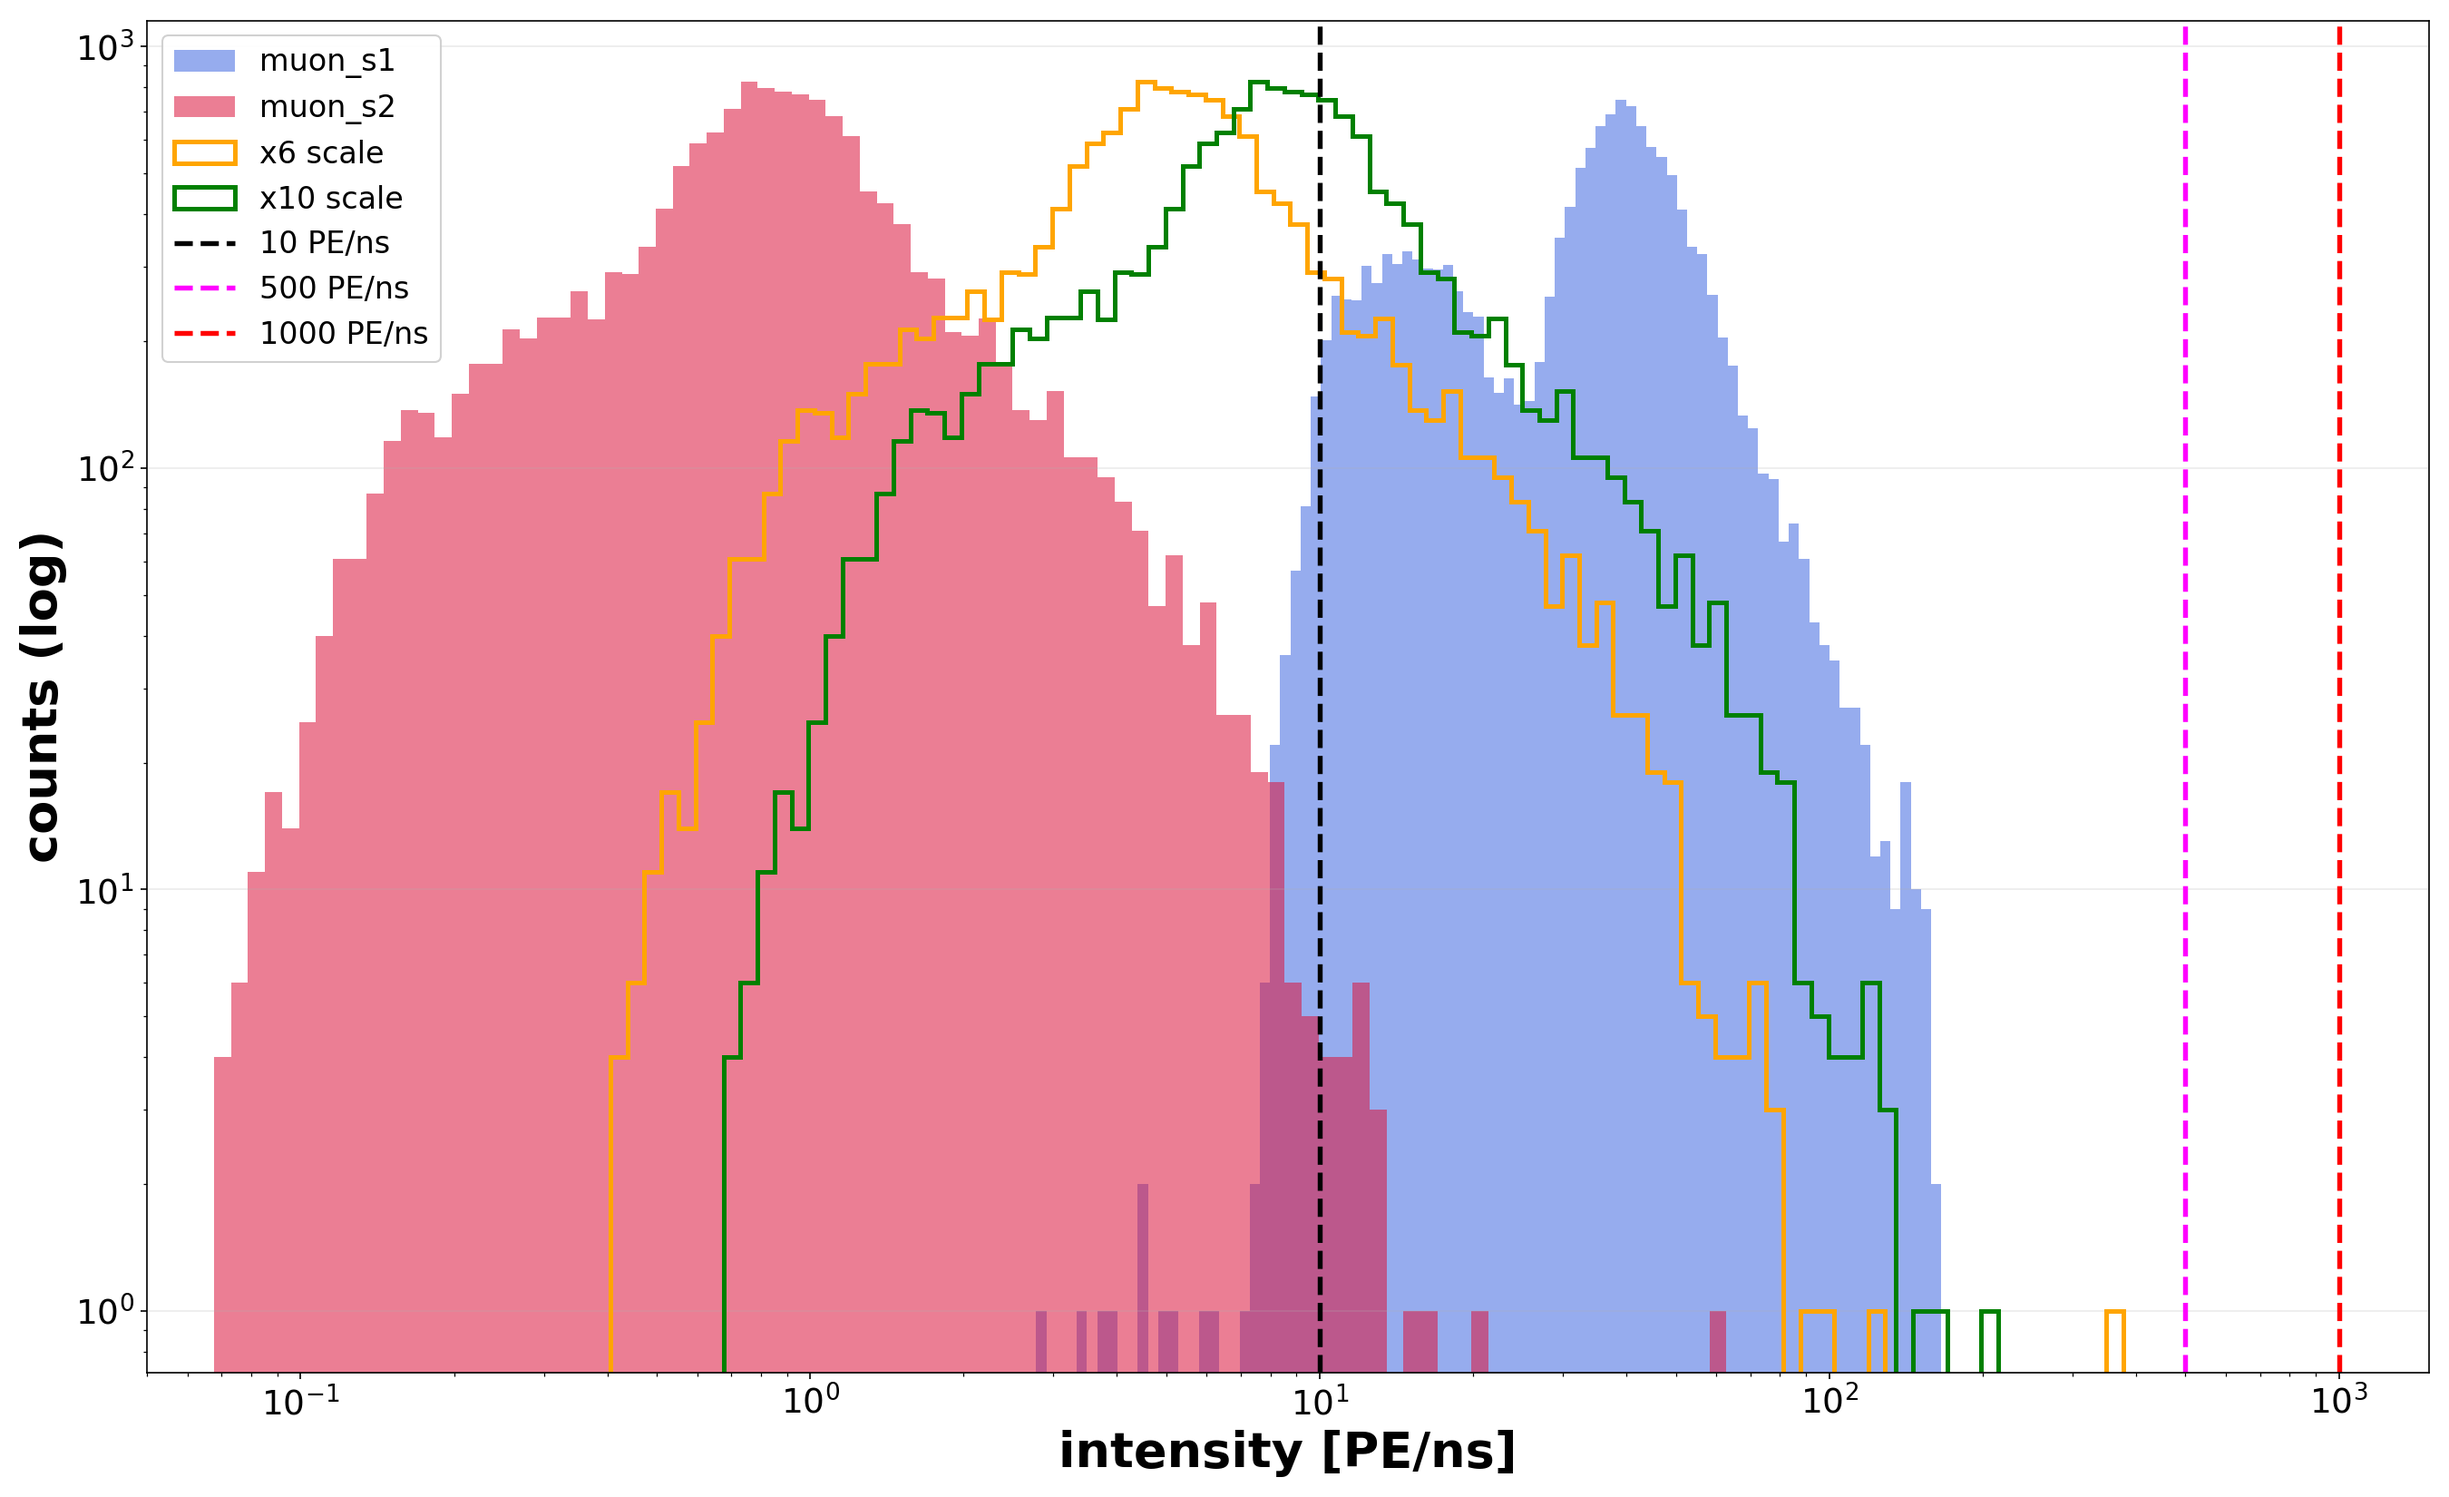
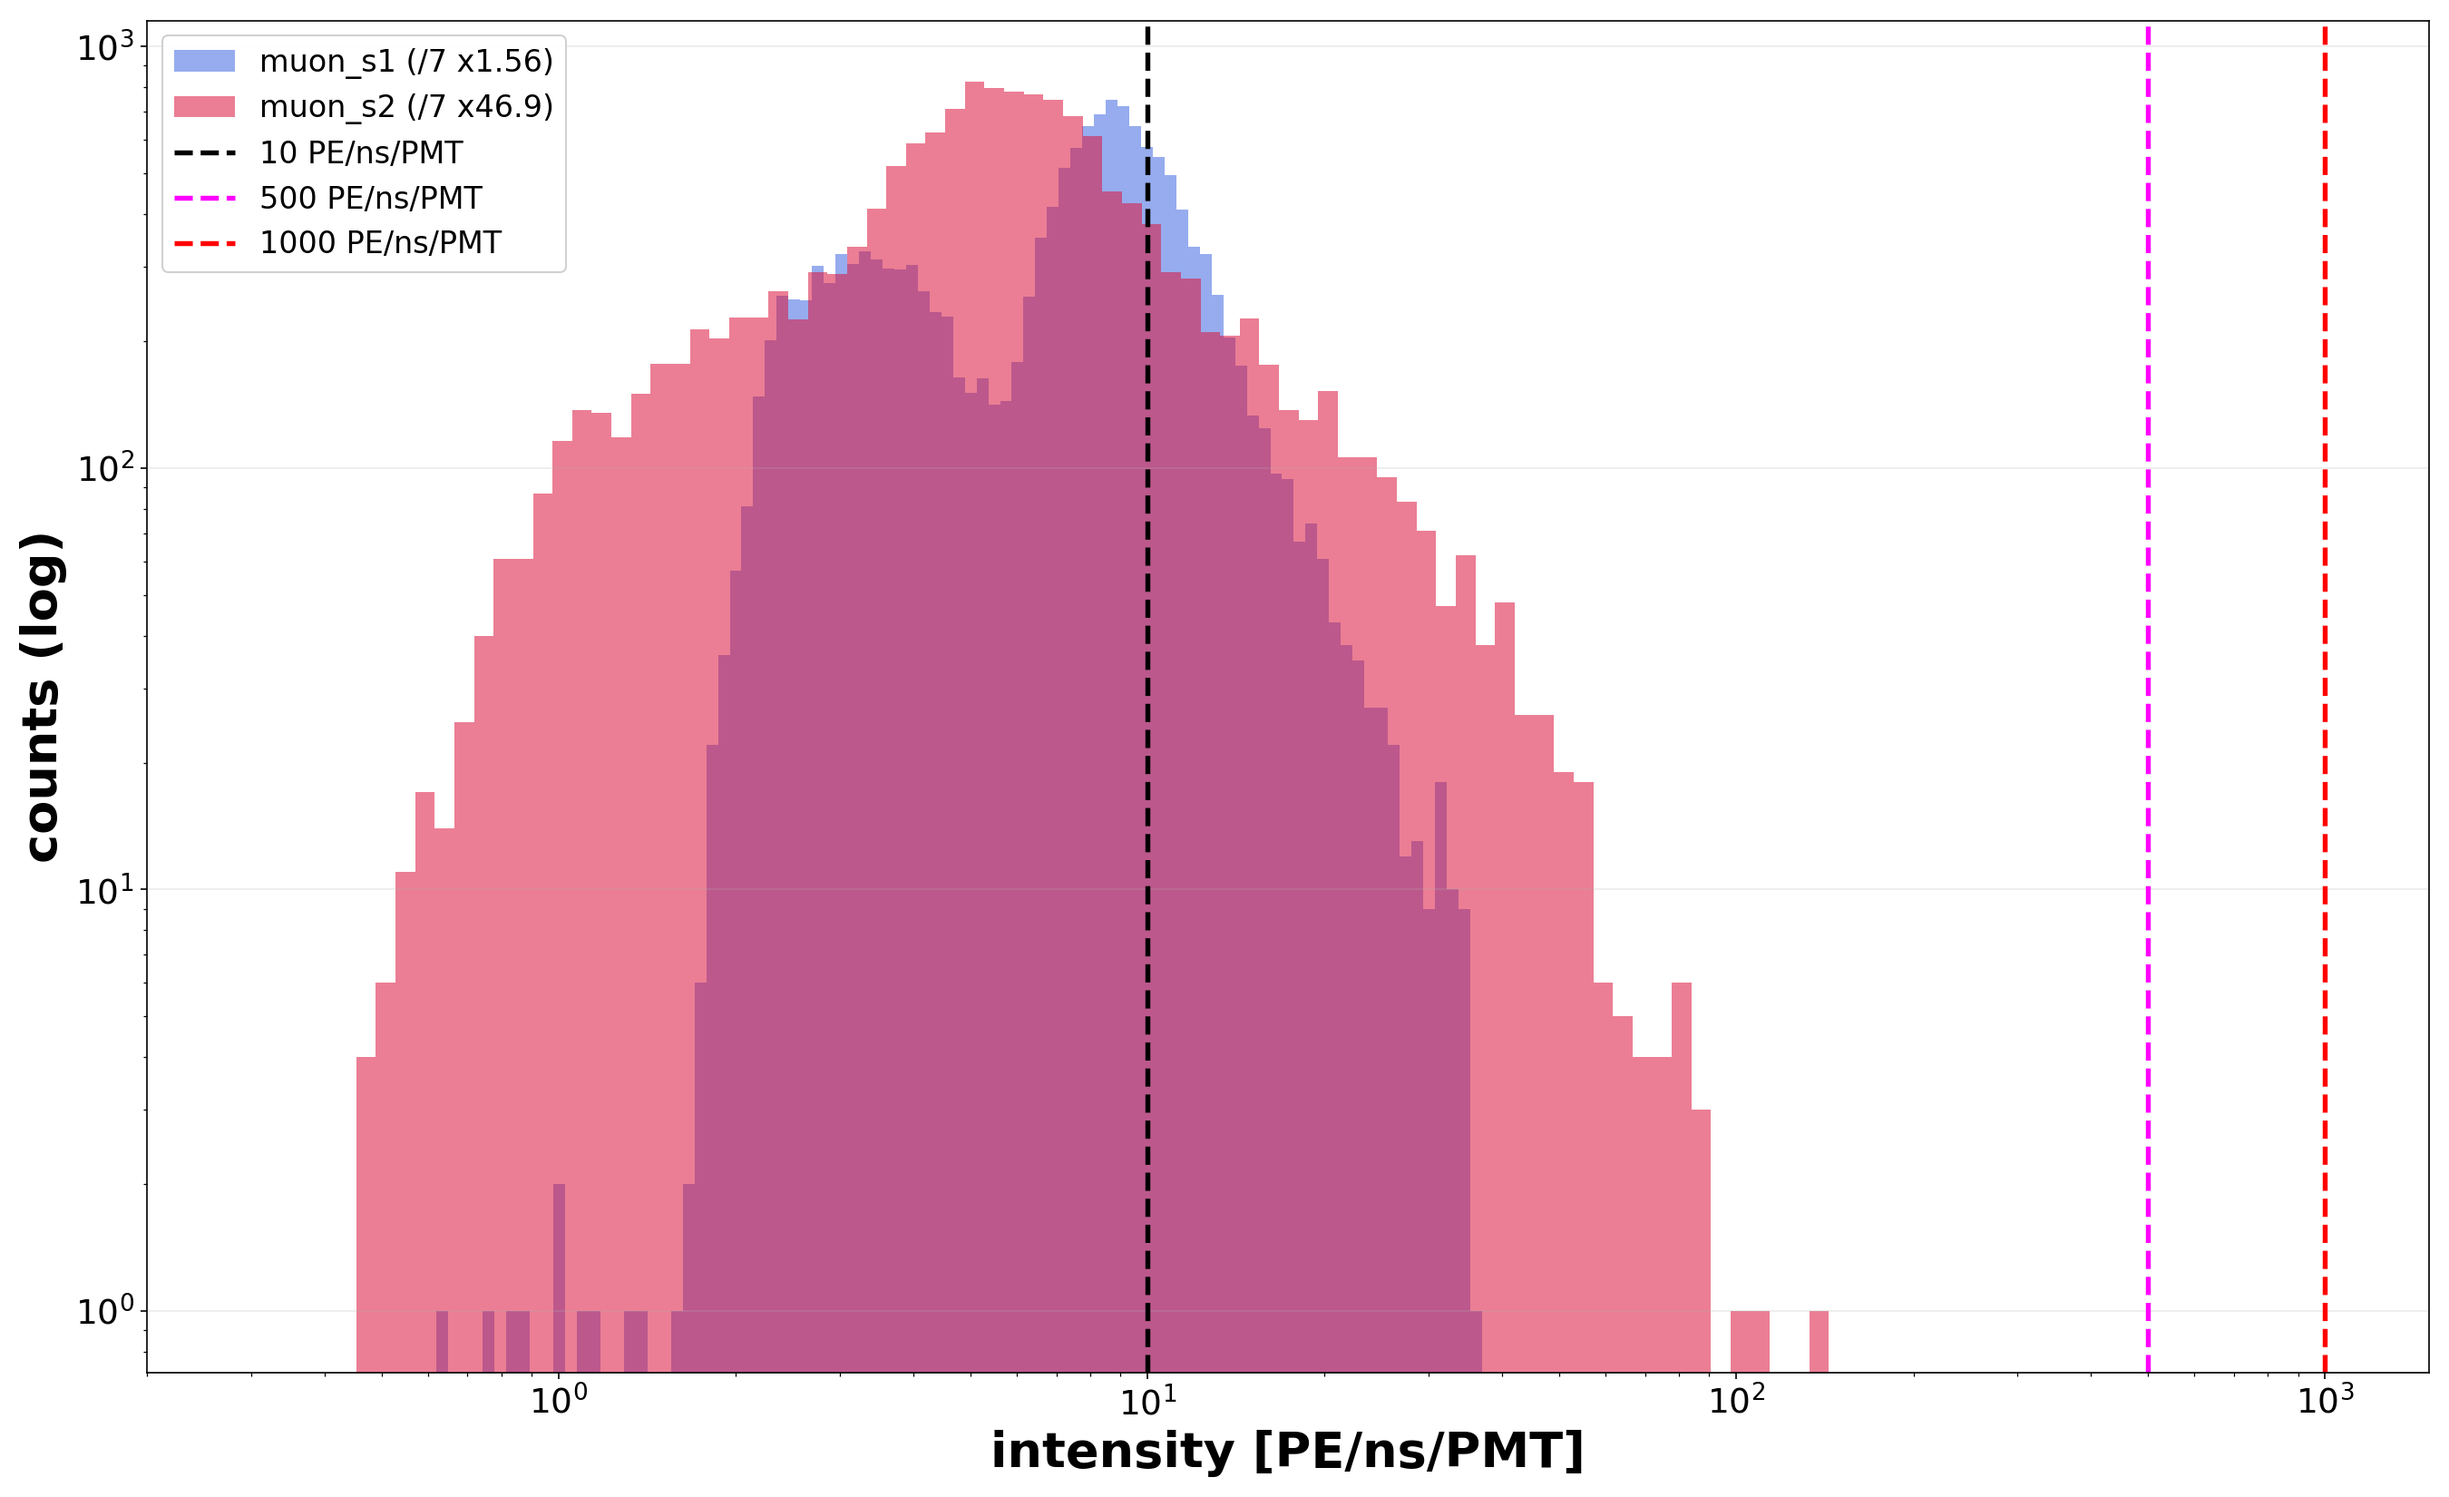
Intensity histograms in PE/ns/PMT: /7 with per-histogram factors s1=1.56, s2=46.9

diff --git a/scripts/plot_muon_s1s2_params.py b/scripts/plot_muon_s1s2_params.py
@@ -124,35 +124,30 @@ draw_2d(lo, "co60_590_v2_muon_s1s2_2d_lowarea.png",
         f"S1/S2 parameter correlations (n={len(lo)})")
 
 # --- Figure 3: light intensity (area / width) histograms ---
-intensity = [
-    ("muon_s1", "muon_s1_area_an", "muon_s1_width_ns", "royalblue"),
-    ("muon_s2", "muon_s2_area_an", "muon_s2_width_ns", "crimson"),
-]
-fig, ax = plt.subplots(figsize=(18, 11))
+N_PMT = 7.0
+SCALE_S1, SCALE_S2 = 1.56, 46.9
 s1_int = (m["muon_s1_area_an"] / m["muon_s1_width_ns"])
 s1_int = s1_int.replace([np.inf, -np.inf], np.nan).dropna()
-s1_int = s1_int[s1_int > 0]
+s1_int = s1_int[s1_int > 0] / N_PMT * SCALE_S1
 s2_int = (m["muon_s2_area_an"] / m["muon_s2_width_ns"])
 s2_int = s2_int.replace([np.inf, -np.inf], np.nan).dropna()
-s2_int = s2_int[s2_int > 0]
-scales_log = [(6.0, "orange"), (10.0, "green")]
-scales_lin = [(30.0, "orange")]
-def draw_intensity(yscale, name, scales):
+s2_int = s2_int[s2_int > 0] / N_PMT * SCALE_S2
+def draw_intensity(yscale, name):
     fig, ax = plt.subplots(figsize=(18, 11))
     curves = [
-        (s1_int, "royalblue", "muon_s1", "stepfilled", 0.55),
-        (s2_int, "crimson", "muon_s2", "stepfilled", 0.55),
-    ] + [(s2_int * f, color, f"x{f:g} scale", "step", 1.0) for f, color in scales]
+        (s1_int, "royalblue", f"muon_s1 (/7 x{SCALE_S1:g})", "stepfilled", 0.55),
+        (s2_int, "crimson", f"muon_s2 (/7 x{SCALE_S2:g})", "stepfilled", 0.55),
+    ]
     for v, color, lab, htype, alpha in curves:
         bins = np.logspace(np.log10(v.min()), np.log10(v.max()), 90)
         ax.hist(v, bins=bins, color=color, alpha=alpha, histtype=htype, lw=2.4,
                 label=lab)
     for x, color in [(10.0, "black"), (500.0, "magenta"), (1000.0, "red")]:
-        ax.axvline(x, color=color, ls="--", lw=2.6, label=f"{x:g} PE/ns")
+        ax.axvline(x, color=color, ls="--", lw=2.6, label=f"{x:g} PE/ns/PMT")
     ax.set_xscale("log")
     ax.set_yscale(yscale)
-    ax.set_xlim(5e-2, 1.5e3)
-    ax.set_xlabel("intensity [PE/ns]")
+    ax.set_xlim(2e-1, 1.5e3)
+    ax.set_xlabel("intensity [PE/ns/PMT]")
     ax.set_ylabel(f"counts ({yscale})")
     ax.grid(True, axis="y", alpha=0.25)
     ax.legend(framealpha=0.9)
@@ -163,5 +158,5 @@ def draw_intensity(yscale, name, scales):
     print(f"saved {name}")
 
 
-draw_intensity("log", "co60_590_v2_muon_s1s2_intensity.png", scales_log)
-draw_intensity("linear", "co60_590_v2_muon_s1s2_intensity_liny.png", scales_lin)
+draw_intensity("log", "co60_590_v2_muon_s1s2_intensity.png")
+draw_intensity("linear", "co60_590_v2_muon_s1s2_intensity_liny.png")
